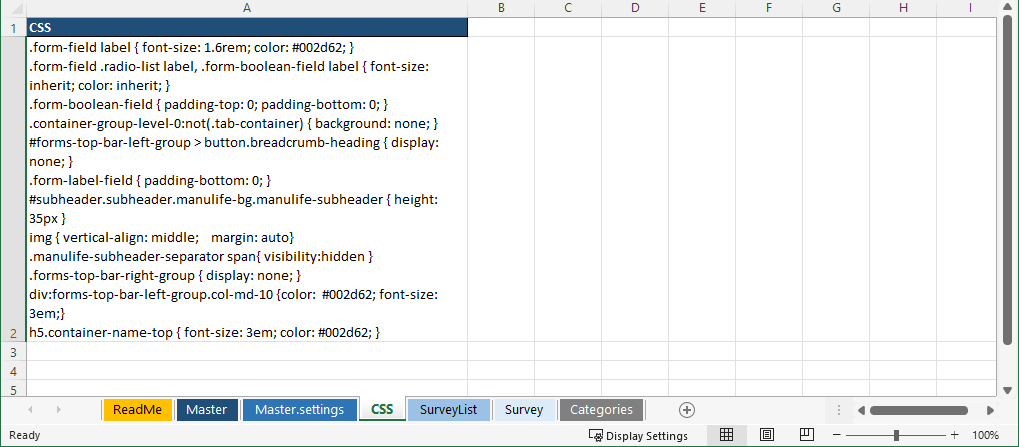
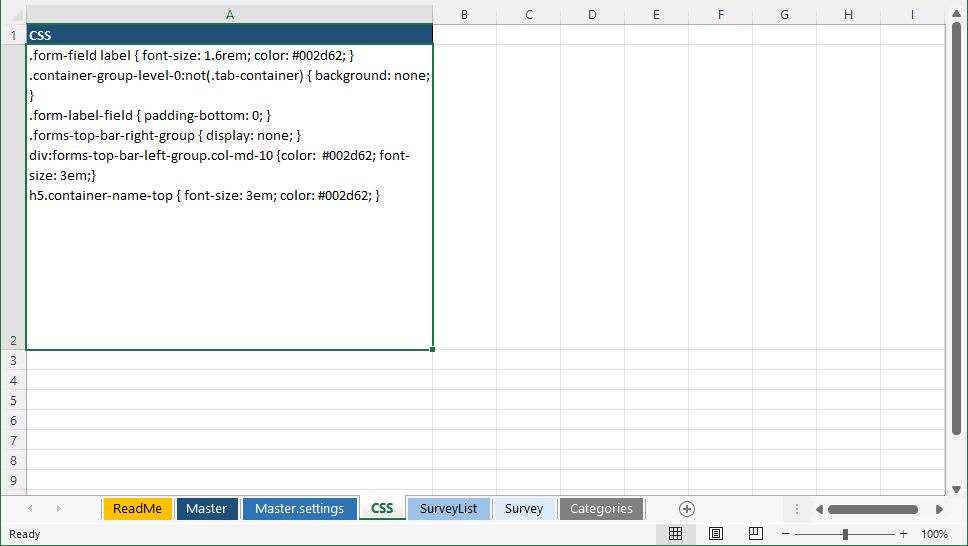
edits to dataportals tutorial on Surveys

diff --git a/docs/Tutorial/DataPortals-Survey.md b/docs/Tutorial/DataPortals-Survey.md
@@ -35,12 +35,12 @@ The table and screenshot below shows our design for the "Survey" page. We have f
 
 - [`Name`](../DataPortals/06.Setting-Details/Name.md): A whitespace-free name for the field. Think of this as the name you would give this field's column in a database.
 
-!!!note
+!!! note
     The [`Name`](../DataPortals/06.Setting-Details/Name.md) field will be used as column names in the underlying database, and will not be shown to users (that's what [`DisplayName`](../DataPortals/06.Setting-Details/DisplayName.md) is for). Therefore, it is advisable to choose names that make good database column names, that do not contain any whitespace.
 
 - [`DisplayName`](../DataPortals/06.Setting-Details/DisplayName.md): A human-friendly label that will be displayed above the input box for the field on the form interface.
 
-!!!note
+!!! note
     Note the special case for [Label](../DataPortals/05.Control-Details/Label.md) fields. [`DisplayName`](../DataPortals/06.Setting-Details/DisplayName.md) contains rich text written in Markdown.
 
 - `Description`: A longer clarification that can be displayed in a tooltip to more fully explain the field.
@@ -117,20 +117,13 @@ We can add an optional sheet called `CSS` and enter custom CSS rules to style th
 
 Try using the following CSS code:
 
-```css
-.form-field label { font-size: 1.6rem; color: #002d62; } 
-.form-field .radio-list label, .form-boolean-field label { font-size: inherit; color: inherit; }
-.form-boolean-field { padding-top: 0; padding-bottom: 0; }
-.container-group-level-0:not(.tab-container) { background: none; }
-#forms-top-bar-left-group > button.breadcrumb-heading { display: none; }
-.form-label-field { padding-bottom: 0; }
-#subheader.subheader.manulife-bg.manulife-subheader { height: 35px }
-img { vertical-align: middle;    margin: auto}
-.manulife-subheader-separator span{ visibility:hidden }
-.forms-top-bar-right-group { display: none; }
-div:forms-top-bar-left-group.col-md-10 {color:  #002d62; font-size: 3em;}
-h5.container-name-top { font-size: 3em; color: #002d62; }
-.form-app-run-field { text-align: center }
+``` css
+    .form-field label { font-size: 1.6rem; color: #002d62; } 
+    .container-group-level-0:not(.tab-container) { background: none; }
+    .form-label-field { padding-bottom: 0; }
+    .forms-top-bar-right-group { display: none; }
+    div:forms-top-bar-left-group.col-md-10 {color:  #002d62; font-size: 3em;}
+    h5.container-name-top { font-size: 3em; color: #002d62; }
 ```
 
 Our Survey page will now look like this:
@@ -143,7 +136,7 @@ Now that our front-end is taken care of, let's see what Composable generated und
 
 We can create a Composable [DataRepository](../DataRepository/01.Overview.md) for our DataPortal to view and query the back-end database directly.
 
-!!!note
+!!! note
     A [DataRepository](../DataRepository/01.Overview.md) can connect directly to a DataPortal id and show you a database diagram with tables connected by primary and foreign keys.
 
 ![!Create new Composable DataRepository for the existing survey DataPortal](img/DataPortal_Survey_09.png)
@@ -158,7 +151,7 @@ We can also view a visual representation of the relationships (the "entity–rel
 
 We can add some sample data using the DataPortals web interface, and query the table in the database. You'll notice that all of the fields you defined are present and strongly typed in the database table. You'll also get some useful metadata, like the user who filled out the survey and when they did so. 
 
-!!!note
+!!! note
     DataPortals provide certain features that automatically protect you from malicious users who would try to corrupt your data
 
 ![!Query on the Survey table in the DataPortal showing sample data](img/DataPortal_Survey_12.png)
